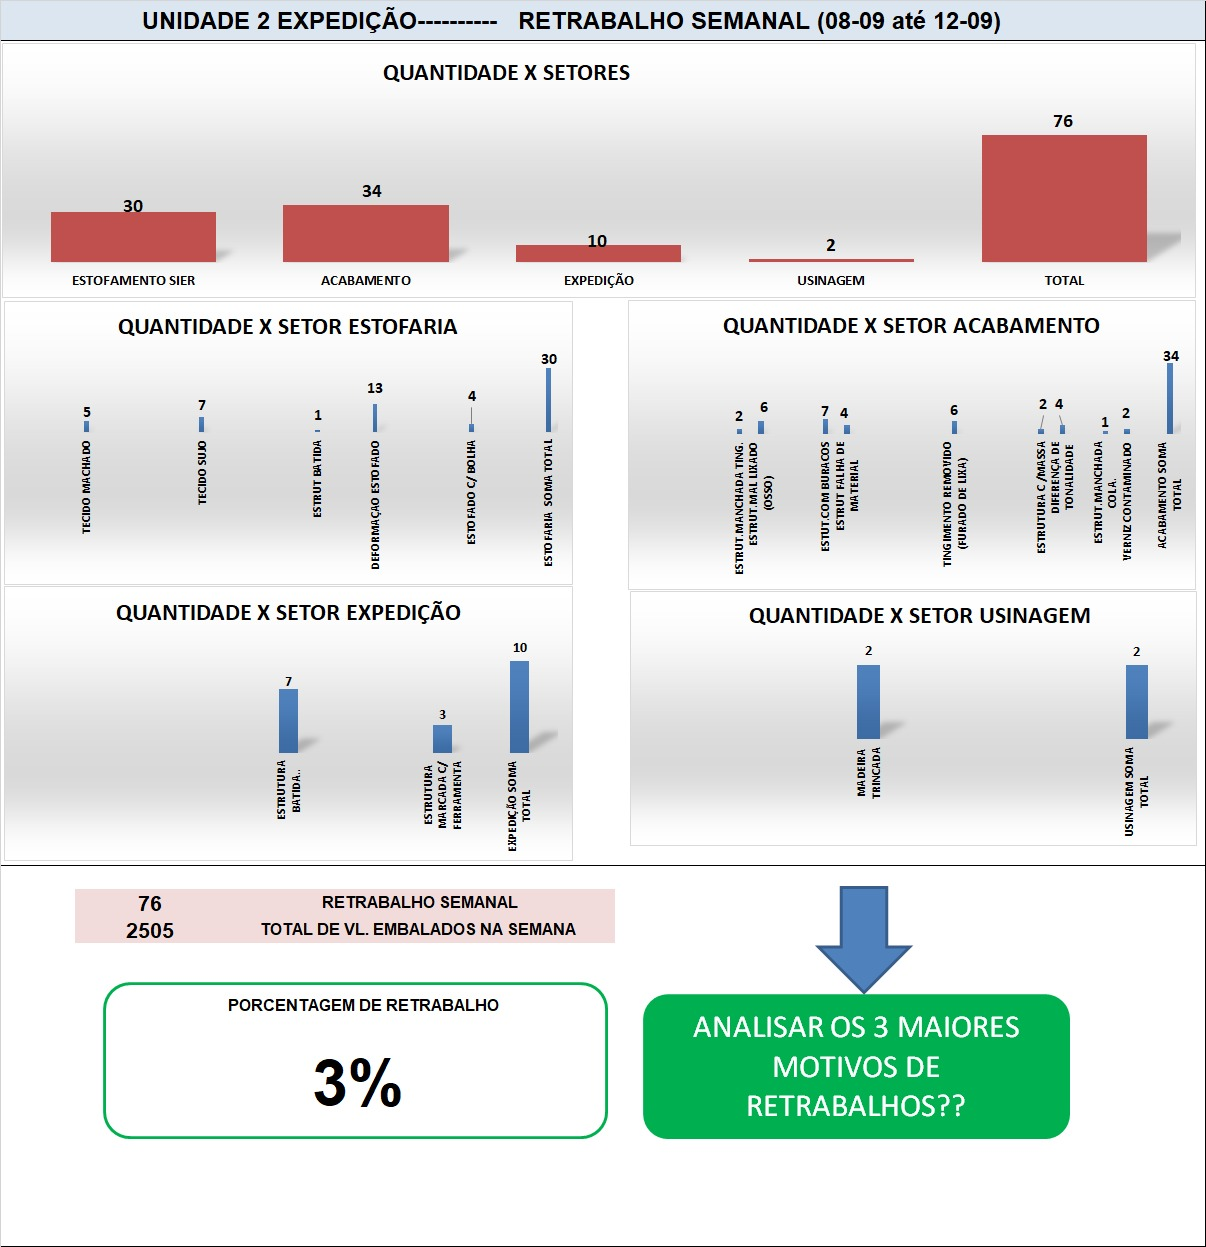
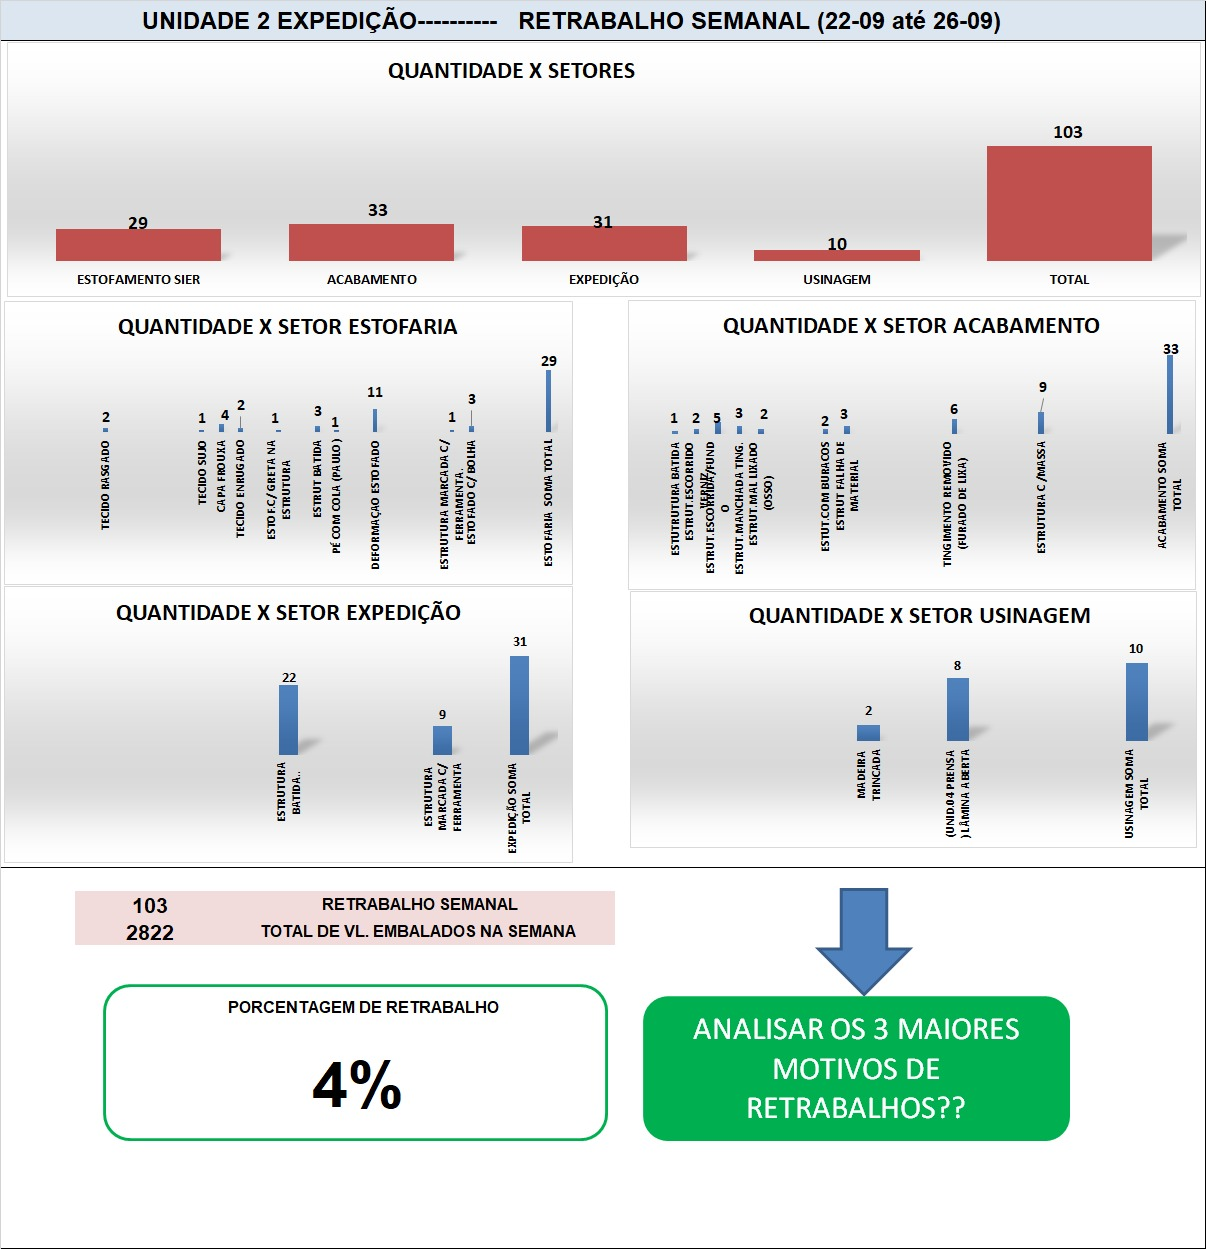
,,

diff --git a/back__incial.js b/back__incial.js
@@ -1778,7 +1778,7 @@ const unidades = {
             { data: "23/09/2025", captura: ["capturas/Unidade 2/Usinagem/2025/09-SETEMBRO/CNC/23.jpeg"] },
             { data: "24/09/2025", captura: ["capturas/Unidade 2/Usinagem/2025/09-SETEMBRO/CNC/24.jpeg"] },
             { data: "25/09/2025", captura: ["capturas/Unidade 2/Usinagem/2025/09-SETEMBRO/CNC/25.jpeg"] },
-
+            { data: "26/09/2025", captura: ["capturas/Unidade 2/Usinagem/2025/09-SETEMBRO/CNC/26.jpeg"] },
 
 
 
@@ -2045,7 +2045,10 @@ const unidades = {
             { data: "22/09/2025", captura: ["capturas/Unidade 2/Usinagem/2025/09-SETEMBRO/MONTAGEM US/22.jpeg", "capturas/Unidade 2/Usinagem/2025/09-SETEMBRO/ROLINHO/22.jpeg", "capturas/Unidade 2/Usinagem/2025/09-SETEMBRO/ROQUITE/22.jpeg", "capturas/Unidade 2/Usinagem/2025/09-SETEMBRO/MM/22.jpg", "capturas/Unidade 2/Usinagem/2025/09-SETEMBRO/USINAGEM/22.jpg"] },
             { data: "23/09/2025", captura: ["capturas/Unidade 2/Usinagem/2025/09-SETEMBRO/MONTAGEM US/23.jpeg", "capturas/Unidade 2/Usinagem/2025/09-SETEMBRO/ROLINHO/23.jpeg", "capturas/Unidade 2/Usinagem/2025/09-SETEMBRO/ROQUITE/23.jpeg", "capturas/Unidade 2/Usinagem/2025/09-SETEMBRO/MM/23.jpeg", "capturas/Unidade 2/Usinagem/2025/09-SETEMBRO/USINAGEM/23.jpg"] },
             { data: "24/09/2025", captura: ["capturas/Unidade 2/Usinagem/2025/09-SETEMBRO/MONTAGEM US/24.jpeg", "capturas/Unidade 2/Usinagem/2025/09-SETEMBRO/ROLINHO/24.jpeg", "capturas/Unidade 2/Usinagem/2025/09-SETEMBRO/ROQUITE/24.jpeg", "capturas/Unidade 2/Usinagem/2025/09-SETEMBRO/MM/24.jpg", "capturas/Unidade 2/Usinagem/2025/09-SETEMBRO/USINAGEM/24.jpg"] },
-            { data: "25/09/2025", captura: ["", "capturas/Unidade 2/Usinagem/2025/09-SETEMBRO/ROLINHO/25.jpeg", "capturas/Unidade 2/Usinagem/2025/09-SETEMBRO/ROQUITE/25.jpeg", "capturas/Unidade 2/Usinagem/2025/09-SETEMBRO/MM/25.jpg", "capturas/Unidade 2/Usinagem/2025/09-SETEMBRO/USINAGEM/25.jpg"] },
+            { data: "25/09/2025", captura: ["capturas/Unidade 2/Usinagem/2025/09-SETEMBRO/ROLINHO/25.jpeg", "capturas/Unidade 2/Usinagem/2025/09-SETEMBRO/ROQUITE/25.jpeg", "capturas/Unidade 2/Usinagem/2025/09-SETEMBRO/MM/25.jpg", "capturas/Unidade 2/Usinagem/2025/09-SETEMBRO/USINAGEM/25.jpg"] },
+            { data: "26/09/2025", captura: ["", "", "", "capturas/Unidade 2/Usinagem/2025/09-SETEMBRO/MM/26.jpg", ""] },
+
+
 
 
             ],
@@ -2515,6 +2518,9 @@ const unidades = {
             { data: "23/09/2025", captura: ["capturas/Unidade 3/Usinagem/2025/09-SETEMBRO/23.jpg"] },
             { data: "24/09/2025", captura: ["capturas/Unidade 3/Usinagem/2025/09-SETEMBRO/24.jpg"] }, 
             { data: "25/09/2025", captura: ["capturas/Unidade 3/Usinagem/2025/09-SETEMBRO/25.jpg"] },
+            { data: "26/09/2025", captura: ["capturas/Unidade 3/Usinagem/2025/09-SETEMBRO/26.jpg"] }, 
+
+
 
 
 
@@ -3862,6 +3868,7 @@ const unidades = {
             { data: "05/09/2025", captura: ["capturas/Retrabalhos/2025/SETEMBRO/Unidade 1/Cab.Fundo/01 pt01.jpg", "capturas/Retrabalhos/2025/SETEMBRO/Unidade 1/Cab.Fundo/01 pt02.jpg", "capturas/Retrabalhos/2025/SETEMBRO/Unidade 1/Cab.Fundo/01 pt03.jpg", "capturas/Retrabalhos/2025/SETEMBRO/Unidade 1/Cab.Fundo/01 pt04.jpg", "capturas/Retrabalhos/2025/SETEMBRO/Unidade 1/Cab.Fundo/01 g.jpg"] },
             { data: "12/09/2025", captura: ["capturas/Retrabalhos/2025/SETEMBRO/Unidade 1/Cab.Fundo/12 pt01.jpg", "capturas/Retrabalhos/2025/SETEMBRO/Unidade 1/Cab.Fundo/12 pt02.jpg", "capturas/Retrabalhos/2025/SETEMBRO/Unidade 1/Cab.Fundo/12 pt03.jpg", "capturas/Retrabalhos/2025/SETEMBRO/Unidade 1/Cab.Fundo/12 pt04.jpg", "capturas/Retrabalhos/2025/SETEMBRO/Unidade 1/Cab.Fundo/12.jpg"] },
             { data: "18/09/2025", captura: ["capturas/Retrabalhos/2025/SETEMBRO/Unidade 1/Cab.Fundo/18 pt01.jpg", "capturas/Retrabalhos/2025/SETEMBRO/Unidade 1/Cab.Fundo/18 pt02.jpg", "capturas/Retrabalhos/2025/SETEMBRO/Unidade 1/Cab.Fundo/18 pt03.jpg", "capturas/Retrabalhos/2025/SETEMBRO/Unidade 1/Cab.Fundo/18 pt04.jpg", "capturas/Retrabalhos/2025/SETEMBRO/Unidade 1/Cab.Fundo/18G.jpg"] },
+            { data: "26/09/2025", captura: ["capturas/Retrabalhos/2025/SETEMBRO/Unidade 1/Cab.Fundo/26 pt01.jpg", "capturas/Retrabalhos/2025/SETEMBRO/Unidade 1/Cab.Fundo/26 pt02.jpg", "capturas/Retrabalhos/2025/SETEMBRO/Unidade 1/Cab.Fundo/26 pt03.jpg", "capturas/Retrabalhos/2025/SETEMBRO/Unidade 1/Cab.Fundo/26 pt04.jpg", "capturas/Retrabalhos/2025/SETEMBRO/Unidade 1/Cab.Fundo/26 g.jpg"] },
 
 
 
@@ -4035,6 +4042,7 @@ const unidades = {
             { data: "05/09/2025", captura: ["capturas/Retrabalhos/2025/SETEMBRO/Unidade 1/Expedição/05 PT01.jpg", "capturas/Retrabalhos/2025/SETEMBRO/Unidade 1/Expedição/05 PT02.jpg", "capturas/Retrabalhos/2025/SETEMBRO/Unidade 1/Expedição/05 PT03.jpg", "capturas/Retrabalhos/2025/SETEMBRO/Unidade 1/Expedição/05 PT04.jpg", "capturas/Retrabalhos/2025/SETEMBRO/Unidade 1/Expedição/05 G.jpg"] },
             { data: "12/09/2025", captura: ["capturas/Retrabalhos/2025/SETEMBRO/Unidade 1/Expedição/12 PT01.jpg", "capturas/Retrabalhos/2025/SETEMBRO/Unidade 1/Expedição/12 PT02.jpg", "capturas/Retrabalhos/2025/SETEMBRO/Unidade 1/Expedição/12 PT03.jpg", "capturas/Retrabalhos/2025/SETEMBRO/Unidade 1/Expedição/12 PT04.jpg", "capturas/Retrabalhos/2025/SETEMBRO/Unidade 1/Expedição/12 g.jpg"] },
             { data: "18/09/2025", captura: ["capturas/Retrabalhos/2025/SETEMBRO/Unidade 1/Expedição/18 PT01.jpg", "capturas/Retrabalhos/2025/SETEMBRO/Unidade 1/Expedição/18 PT02.jpg", "capturas/Retrabalhos/2025/SETEMBRO/Unidade 1/Expedição/18 PT03.jpg", "capturas/Retrabalhos/2025/SETEMBRO/Unidade 1/Expedição/18 PT04.jpg", "capturas/Retrabalhos/2025/SETEMBRO/Unidade 1/Expedição/18 g.jpg"] },
+            { data: "26/09/2025", captura: ["capturas/Retrabalhos/2025/SETEMBRO/Unidade 1/Expedição/26 PT01.jpg", "capturas/Retrabalhos/2025/SETEMBRO/Unidade 1/Expedição/26 PT02.jpg", "capturas/Retrabalhos/2025/SETEMBRO/Unidade 1/Expedição/26 PT03.jpg", "capturas/Retrabalhos/2025/SETEMBRO/Unidade 1/Expedição/26 PT04.jpg", "capturas/Retrabalhos/2025/SETEMBRO/Unidade 1/Expedição/26 g.jpg"] },
 
 
 
@@ -4205,6 +4213,9 @@ const unidades = {
             { data: "05/09/2025", captura: ["capturas/Retrabalhos/2025/SETEMBRO/Unidade 1/Osso/01 pt01.jpg", "capturas/Retrabalhos/2025/SETEMBRO/Unidade 1/Osso/01 pt02.jpg", "capturas/Retrabalhos/2025/SETEMBRO/Unidade 1/Osso/01 pt03.jpg", "capturas/Retrabalhos/2025/SETEMBRO/Unidade 1/Osso/01 pt04.jpg", "capturas/Retrabalhos/2025/SETEMBRO/Unidade 1/Osso/01 g.jpg"] },
             { data: "12/09/2025", captura: ["capturas/Retrabalhos/2025/SETEMBRO/Unidade 1/Osso/12 pt01.jpg", "capturas/Retrabalhos/2025/SETEMBRO/Unidade 1/Osso/12 pt02.jpg", "capturas/Retrabalhos/2025/SETEMBRO/Unidade 1/Osso/12 pt03.jpg", "capturas/Retrabalhos/2025/SETEMBRO/Unidade 1/Osso/12 pt04.jpg", "capturas/Retrabalhos/2025/SETEMBRO/Unidade 1/Osso/12 g.jpg"] },
             { data: "18/09/2025", captura: ["capturas/Retrabalhos/2025/SETEMBRO/Unidade 1/Osso/18 pt01.jpg", "capturas/Retrabalhos/2025/SETEMBRO/Unidade 1/Osso/18 pt02.jpg", "capturas/Retrabalhos/2025/SETEMBRO/Unidade 1/Osso/18 pt03.jpg", "capturas/Retrabalhos/2025/SETEMBRO/Unidade 1/Osso/18 pt04.jpg", "capturas/Retrabalhos/2025/SETEMBRO/Unidade 1/Osso/18 g.jpg"] },
+            { data: "26/09/2025", captura: ["capturas/Retrabalhos/2025/SETEMBRO/Unidade 1/Osso/26 pt01.jpg", "capturas/Retrabalhos/2025/SETEMBRO/Unidade 1/Osso/26 pt02.jpg", "capturas/Retrabalhos/2025/SETEMBRO/Unidade 1/Osso/26 pt03.jpg", "capturas/Retrabalhos/2025/SETEMBRO/Unidade 1/Osso/26 pt04.jpg", "capturas/Retrabalhos/2025/SETEMBRO/Unidade 1/Osso/26g.jpg"] },
+
+
 
             
             // { data: "", captura: ["", "", "", "", ""] },
@@ -4373,6 +4384,7 @@ const unidades = {
             { data: "09/08/2025", captura: ["capturas/Retrabalhos/2025/SETEMBRO/Unidade 1/Usinagem/05 pt01.jpg", "capturas/Retrabalhos/2025/SETEMBRO/Unidade 1/Usinagem/05 pt02.jpg", "capturas/Retrabalhos/2025/SETEMBRO/Unidade 1/Usinagem/05 pt03.jpg", "capturas/Retrabalhos/2025/SETEMBRO/Unidade 1/Usinagem/05 pt04.jpg", "capturas/Retrabalhos/2025/SETEMBRO/Unidade 1/Usinagem/05 g.jpg"] },
             { data: "12/09/2025", captura: ["capturas/Retrabalhos/2025/SETEMBRO/Unidade 1/Usinagem/12  pt01.jpg", "capturas/Retrabalhos/2025/SETEMBRO/Unidade 1/Usinagem/12  pt02.jpg", "capturas/Retrabalhos/2025/SETEMBRO/Unidade 1/Usinagem/12  pt03.jpg", "capturas/Retrabalhos/2025/SETEMBRO/Unidade 1/Usinagem/12  pt04.jpg", "capturas/Retrabalhos/2025/SETEMBRO/Unidade 1/Usinagem/12.jpg"] },
             { data: "18/09/2025", captura: ["capturas/Retrabalhos/2025/SETEMBRO/Unidade 1/Usinagem/18 pt01.jpg", "capturas/Retrabalhos/2025/SETEMBRO/Unidade 1/Usinagem/18 pt02.jpg", "capturas/Retrabalhos/2025/SETEMBRO/Unidade 1/Usinagem/18 pt03.jpg", "capturas/Retrabalhos/2025/SETEMBRO/Unidade 1/Usinagem/18 pt04.jpg", "capturas/Retrabalhos/2025/SETEMBRO/Unidade 1/Usinagem/18 g.jpg"] },
+            { data: "26/09/2025", captura: ["capturas/Retrabalhos/2025/SETEMBRO/Unidade 1/Usinagem/26 pt01.jpg", "capturas/Retrabalhos/2025/SETEMBRO/Unidade 1/Usinagem/26 pt02.jpg", "capturas/Retrabalhos/2025/SETEMBRO/Unidade 1/Usinagem/26 pt03.jpg", "capturas/Retrabalhos/2025/SETEMBRO/Unidade 1/Usinagem/26 pt4.jpg", "capturas/Retrabalhos/2025/SETEMBRO/Unidade 1/Usinagem/26 g.jpg"] },
 
 
 
@@ -4728,6 +4740,7 @@ const unidades = {
             { data: "05/09/2025", captura: ["capturas/Retrabalhos/2025/SETEMBRO/Unidade 2/Estofaria/05 pt01.jpg", "capturas/Retrabalhos/2025/SETEMBRO/Unidade 2/Estofaria/05 pt02.jpg", "capturas/Retrabalhos/2025/SETEMBRO/Unidade 2/Estofaria/05g.jpg"] },
             { data: "12/09/2025", captura: ["capturas/Retrabalhos/2025/SETEMBRO/Unidade 2/Estofaria/12 pt01.jpg", "capturas/Retrabalhos/2025/SETEMBRO/Unidade 2/Estofaria/12 pt02.jpg", "capturas/Retrabalhos/2025/SETEMBRO/Unidade 2/Estofaria/12g.jpg"] },
             { data: "18/09/2025", captura: ["capturas/Retrabalhos/2025/SETEMBRO/Unidade 2/Estofaria/18 pt01.jpg", "capturas/Retrabalhos/2025/SETEMBRO/Unidade 2/Estofaria/18 pt02.jpg", "capturas/Retrabalhos/2025/SETEMBRO/Unidade 2/Estofaria/18 g.jpg"] },
+            { data: "26/09/2025", captura: ["capturas/Retrabalhos/2025/SETEMBRO/Unidade 2/Estofaria/26 pt01.jpg", "capturas/Retrabalhos/2025/SETEMBRO/Unidade 2/Estofaria/26 pt02.jpg", "capturas/Retrabalhos/2025/SETEMBRO/Unidade 2/Estofaria/26 g.jpg"] },
 
 
 
@@ -4908,6 +4921,7 @@ const unidades = {
             { data: "05/09/2025", captura: ["capturas/Retrabalhos/2025/SETEMBRO/Unidade 2/Expedição/05 pt01.jpg", "capturas/Retrabalhos/2025/SETEMBRO/Unidade 2/Expedição/05 pt02.jpg", "capturas/Retrabalhos/2025/SETEMBRO/Unidade 2/Expedição/5 g.jpg"] },
             { data: "12/09/2025", captura: ["capturas/Retrabalhos/2025/SETEMBRO/Unidade 2/Expedição/12 pt01.jpg", "capturas/Retrabalhos/2025/SETEMBRO/Unidade 2/Expedição/12 pt02.jpg", "capturas/Retrabalhos/2025/SETEMBRO/Unidade 2/Expedição/12g.jpg"] },
             { data: "18/09/2025", captura: ["capturas/Retrabalhos/2025/SETEMBRO/Unidade 2/Expedição/18 pt01.jpg", "capturas/Retrabalhos/2025/SETEMBRO/Unidade 2/Expedição/18 pt02.jpg", "capturas/Retrabalhos/2025/SETEMBRO/Unidade 2/Expedição/18 g.jpg"] },
+            { data: "26/09/2025", captura: ["capturas/Retrabalhos/2025/SETEMBRO/Unidade 2/Expedição/26 pt01.jpg", "capturas/Retrabalhos/2025/SETEMBRO/Unidade 2/Expedição/26 pt02.jpg", "capturas/Retrabalhos/2025/SETEMBRO/Unidade 2/Expedição/26 g.jpg"] },
 
 
 
@@ -5081,7 +5095,7 @@ const unidades = {
             { data: "05/09/2025", captura: ["capturas/Retrabalhos/2025/SETEMBRO/Unidade 2/Osso/05 pt 1.jpg", "capturas/Retrabalhos/2025/SETEMBRO/Unidade 2/Osso/05 pt 2.jpg", "capturas/Retrabalhos/2025/SETEMBRO/Unidade 2/Osso/05 pt g.jpg"] },
             { data: "12/09/2025", captura: ["capturas/Retrabalhos/2025/SETEMBRO/Unidade 2/Osso/12 pt 1.jpg", "capturas/Retrabalhos/2025/SETEMBRO/Unidade 2/Osso/12 pt 2.jpg", "capturas/Retrabalhos/2025/SETEMBRO/Unidade 2/Osso/12 g.jpg"] },
             { data: "18/09/2025", captura: ["capturas/Retrabalhos/2025/SETEMBRO/Unidade 2/Osso/18 pt 1.jpg", "capturas/Retrabalhos/2025/SETEMBRO/Unidade 2/Osso/18 pt 2.jpg", "capturas/Retrabalhos/2025/SETEMBRO/Unidade 2/Osso/18 g.jpg"] },
-
+            { data: "26/09/2025", captura: ["capturas/Retrabalhos/2025/SETEMBRO/Unidade 2/Osso/26 pt 1.jpg", "capturas/Retrabalhos/2025/SETEMBRO/Unidade 2/Osso/26 pt 2.jpg", "capturas/Retrabalhos/2025/SETEMBRO/Unidade 2/Osso/26 g.jpg"] },
 
  
             //{ data: "", captura: ["", "", ""] },
@@ -5292,6 +5306,7 @@ const unidades = {
             { data: "05/09/2025", captura: ["capturas/Retrabalhos/2025/SETEMBRO/Unidade 2/Usinagem/05 pt01.jpg", "capturas/Retrabalhos/2025/SETEMBRO/Unidade 2/Usinagem/05 pt02.jpg", "capturas/Retrabalhos/2025/SETEMBRO/Unidade 2/Usinagem/05 pt03.jpg", "capturas/Retrabalhos/2025/SETEMBRO/Unidade 2/Usinagem/05 pt04.jpg", "capturas/Retrabalhos/2025/SETEMBRO/Unidade 2/Usinagem/05 G.jpg"] },
             { data: "12/09/2025", captura: ["capturas/Retrabalhos/2025/SETEMBRO/Unidade 2/Usinagem/12 pt01.jpg", "capturas/Retrabalhos/2025/SETEMBRO/Unidade 2/Usinagem/12 pt02.jpg", "capturas/Retrabalhos/2025/SETEMBRO/Unidade 2/Usinagem/12 pt03.jpg", "capturas/Retrabalhos/2025/SETEMBRO/Unidade 2/Usinagem/12 pt04.jpg", "capturas/Retrabalhos/2025/SETEMBRO/Unidade 2/Usinagem/12 g.jpg"] },
             { data: "18/09/2025", captura: ["capturas/Retrabalhos/2025/SETEMBRO/Unidade 2/Usinagem/18 pt01.jpg", "capturas/Retrabalhos/2025/SETEMBRO/Unidade 2/Usinagem/18 pt02.jpg", "capturas/Retrabalhos/2025/SETEMBRO/Unidade 2/Usinagem/18 pt03.jpg", "capturas/Retrabalhos/2025/SETEMBRO/Unidade 2/Usinagem/18 pt04.jpg", "capturas/Retrabalhos/2025/SETEMBRO/Unidade 2/Usinagem/18 g.jpg"] },
+            { data: "26/09/2025", captura: ["capturas/Retrabalhos/2025/SETEMBRO/Unidade 2/Usinagem/26 pt01.jpg", "capturas/Retrabalhos/2025/SETEMBRO/Unidade 2/Usinagem/26 pt02.jpg", "capturas/Retrabalhos/2025/SETEMBRO/Unidade 2/Usinagem/26 pt03.jpg", "capturas/Retrabalhos/2025/SETEMBRO/Unidade 2/Usinagem/26 pt04.jpg", "capturas/Retrabalhos/2025/SETEMBRO/Unidade 2/Usinagem/26 g.jpg"] },
 
 
             
@@ -5458,6 +5473,7 @@ const unidades = {
            { data: "05/09/2025", captura: ["capturas/Retrabalhos/2025/SETEMBRO/Unidade 3/05 pt1.jpg", "capturas/Retrabalhos/2025/SETEMBRO/Unidade 3/05 pt2.jpg", "capturas/Retrabalhos/2025/SETEMBRO/Unidade 3/05 pt3.jpg", "capturas/Retrabalhos/2025/SETEMBRO/Unidade 3/05 pt4.jpg", "capturas/Retrabalhos/2025/SETEMBRO/Unidade 3/5 g.jpg"] },
            { data: "12/09/2025", captura: ["capturas/Retrabalhos/2025/SETEMBRO/Unidade 3/12 pt1.jpg", "capturas/Retrabalhos/2025/SETEMBRO/Unidade 3/12 pt2.jpg", "capturas/Retrabalhos/2025/SETEMBRO/Unidade 3/12 pt3.jpg", "capturas/Retrabalhos/2025/SETEMBRO/Unidade 3/12 pt4.jpg", "capturas/Retrabalhos/2025/SETEMBRO/Unidade 3/12g.jpg"] },
            { data: "18/09/2025", captura: ["capturas/Retrabalhos/2025/SETEMBRO/Unidade 3/18 pt1.jpg", "capturas/Retrabalhos/2025/SETEMBRO/Unidade 3/18 pt2.jpg", "capturas/Retrabalhos/2025/SETEMBRO/Unidade 3/18 pt3.jpg", "capturas/Retrabalhos/2025/SETEMBRO/Unidade 3/18 pt4.jpg", "capturas/Retrabalhos/2025/SETEMBRO/Unidade 3/18 g.jpg"] },
+           { data: "26/09/2025", captura: ["capturas/Retrabalhos/2025/SETEMBRO/Unidade 3/26 pt1.jpg", "capturas/Retrabalhos/2025/SETEMBRO/Unidade 3/26 pt2.jpg", "capturas/Retrabalhos/2025/SETEMBRO/Unidade 3/26 pt3.jpg", "capturas/Retrabalhos/2025/SETEMBRO/Unidade 3/26 pt4.jpg", "capturas/Retrabalhos/2025/SETEMBRO/Unidade 3/26 g.jpg"] },
 
 
 
@@ -5626,7 +5642,7 @@ const unidades = {
             { data: "05/09/2025", captura: ["capturas/Retrabalhos/2025/SETEMBRO/Unidade 4/05 pt01.jpg", "capturas/Retrabalhos/2025/SETEMBRO/Unidade 4/05 pt02.jpg", "capturas/Retrabalhos/2025/SETEMBRO/Unidade 4/05 g.jpg"] },  
             { data: "12/09/2025", captura: ["capturas/Retrabalhos/2025/SETEMBRO/Unidade 4/12 pt01.jpg", "capturas/Retrabalhos/2025/SETEMBRO/Unidade 4/12 pt02.jpg", "capturas/Retrabalhos/2025/SETEMBRO/Unidade 4/12g.jpg"] },  
             { data: "18/09/2025", captura: ["capturas/Retrabalhos/2025/SETEMBRO/Unidade 4/18 pt01.jpg", "capturas/Retrabalhos/2025/SETEMBRO/Unidade 4/18 pt02.jpg", "capturas/Retrabalhos/2025/SETEMBRO/Unidade 4/18 g.jpg"] },  
-
+            { data: "26/09/2025", captura: ["capturas/Retrabalhos/2025/SETEMBRO/Unidade 4/26 pt01.jpg", "capturas/Retrabalhos/2025/SETEMBRO/Unidade 4/26 pt02.jpg", "capturas/Retrabalhos/2025/SETEMBRO/Unidade 4/26 g.jpg"] },  
             
 
 
